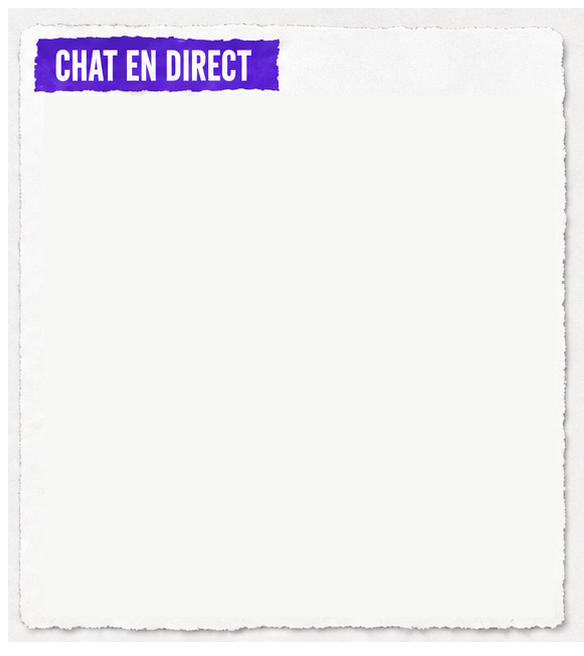
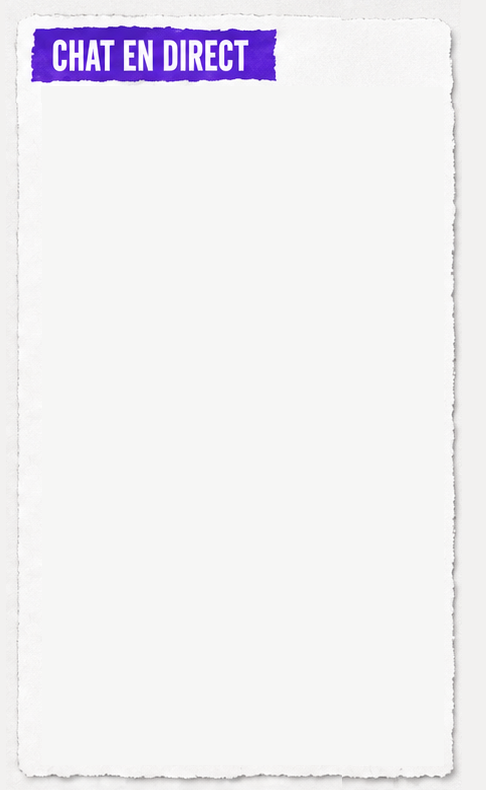
Swap in the v3 chat card artwork on Écran Géant (narrower/taller card)

Changed region(s): [[0.0309, 0.0305, 0.9877, 1.0], [0.0309, 0.0305, 0.5864, 0.1524]]

diff --git a/public/index.html b/public/index.html
@@ -670,10 +670,10 @@ button:active{opacity:.75;transform:scale(.97);transition:opacity .08s,transform
 .bs2-row-vl{font-size:.6rem;color:var(--tx4);text-transform:uppercase}
 .bs2-chat-card{display:flex;flex-direction:column}
 @media (min-width:900px){.bs2-chat-card{min-height:0;overflow:hidden}}
-.bs2-chatimg-wrap{position:relative;width:100%;aspect-ratio:584/656}
+.bs2-chatimg-wrap{position:relative;width:100%;aspect-ratio:486/790}
 @media (min-width:900px){.bs2-chatimg-wrap{height:100%;max-height:100%}}
 .bs2-chatimg{width:100%;height:100%;object-fit:fill;display:block}
-.bs2-chat-feed{position:absolute;left:6.9%;top:17.5%;width:88.2%;height:75.5%;display:flex;flex-direction:column;gap:.6rem;overflow:hidden}
+.bs2-chat-feed{position:absolute;left:7.2%;top:12.7%;width:84.4%;height:82.3%;display:flex;flex-direction:column;gap:.6rem;overflow:hidden}
 .bs2-card-fill{display:flex;flex-direction:column}
 @media (min-width:900px){.bs2-card-fill{flex:1;min-height:0;overflow:hidden}}
 .bs2-chat-msg{display:flex;gap:.6rem;align-items:flex-start}
@@ -1519,7 +1519,7 @@ button:active{opacity:.75;transform:scale(.97);transition:opacity .08s,transform
       </div>
       <div class="bs2-chat-card">
         <div class="bs2-chatimg-wrap">
-          <img src="/images/bs-chat-card.png?v=1" alt="Chat en direct" class="bs2-chatimg">
+          <img src="/images/bs-chat-card.png?v=2" alt="Chat en direct" class="bs2-chatimg">
           <div class="bs2-chat-feed" id="bs-chat-feed"><div class="empty-state"><div class="ei">💬</div><p>En attente de messages…</p></div></div>
         </div>
       </div>
